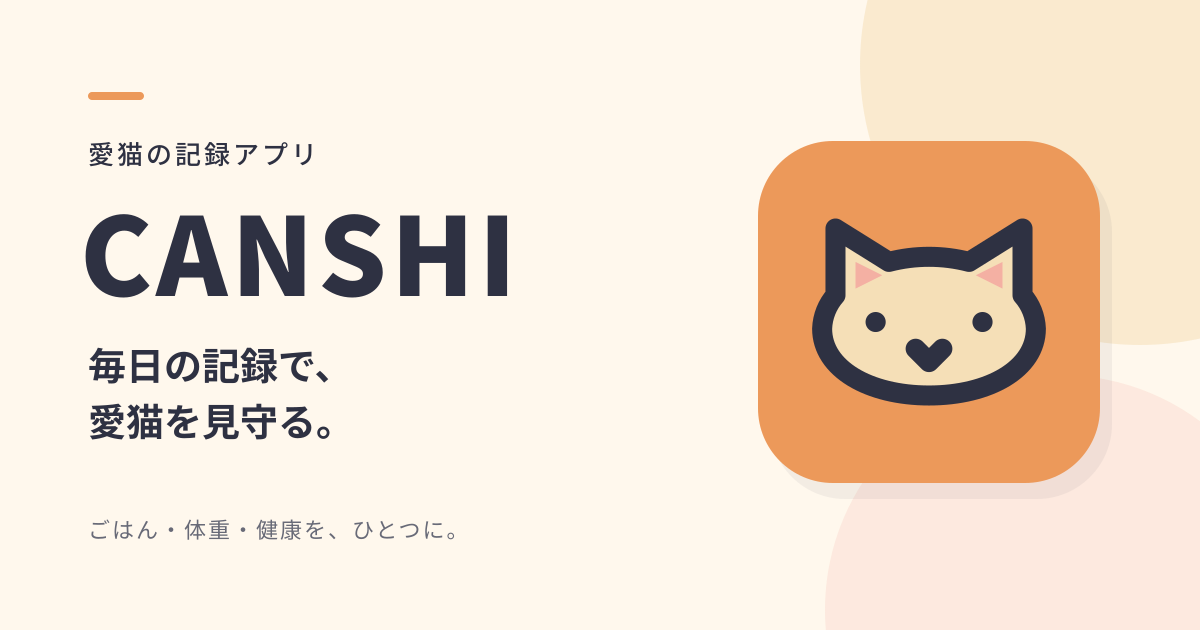
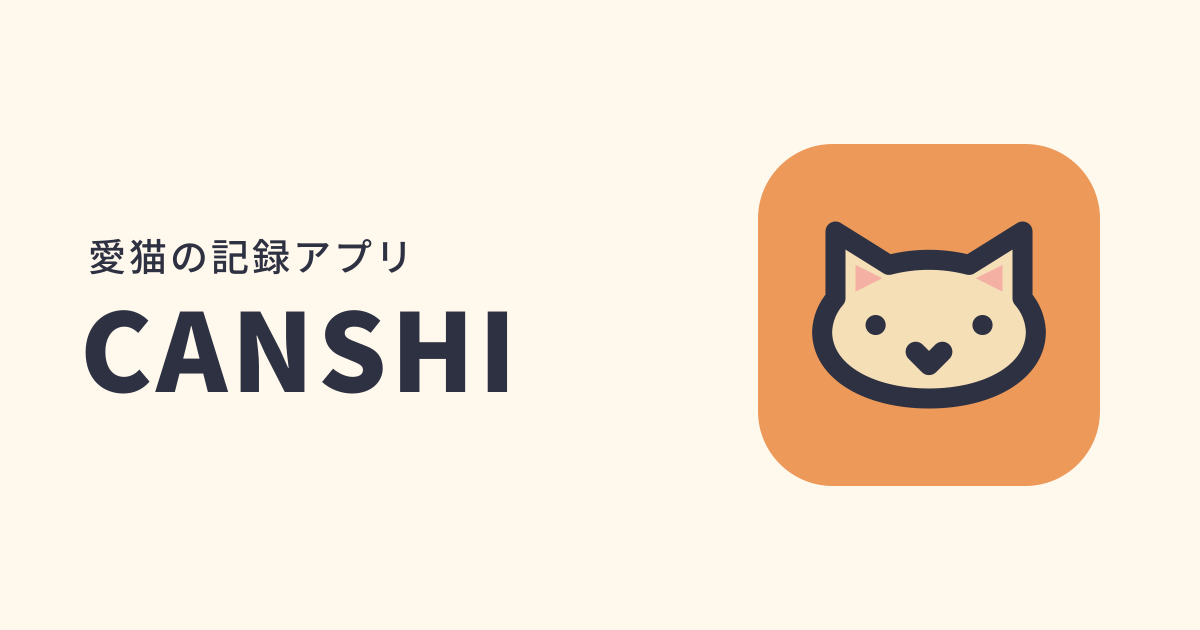
OG 画像の装飾と文言を整理して中央に配置する

diff --git a/src/app/layout.tsx b/src/app/layout.tsx
@@ -15,7 +15,7 @@ const metadata: Metadata = {
   description: "愛猫の記録アプリ",
   openGraph: {
     title: "CANSHI",
-    description: "毎日の記録で、愛猫を見守る。ごはん・体重・健康を、ひとつに。",
+    description: "愛猫の記録アプリ",
     siteName: "CANSHI",
     locale: "ja_JP",
     type: "website",
